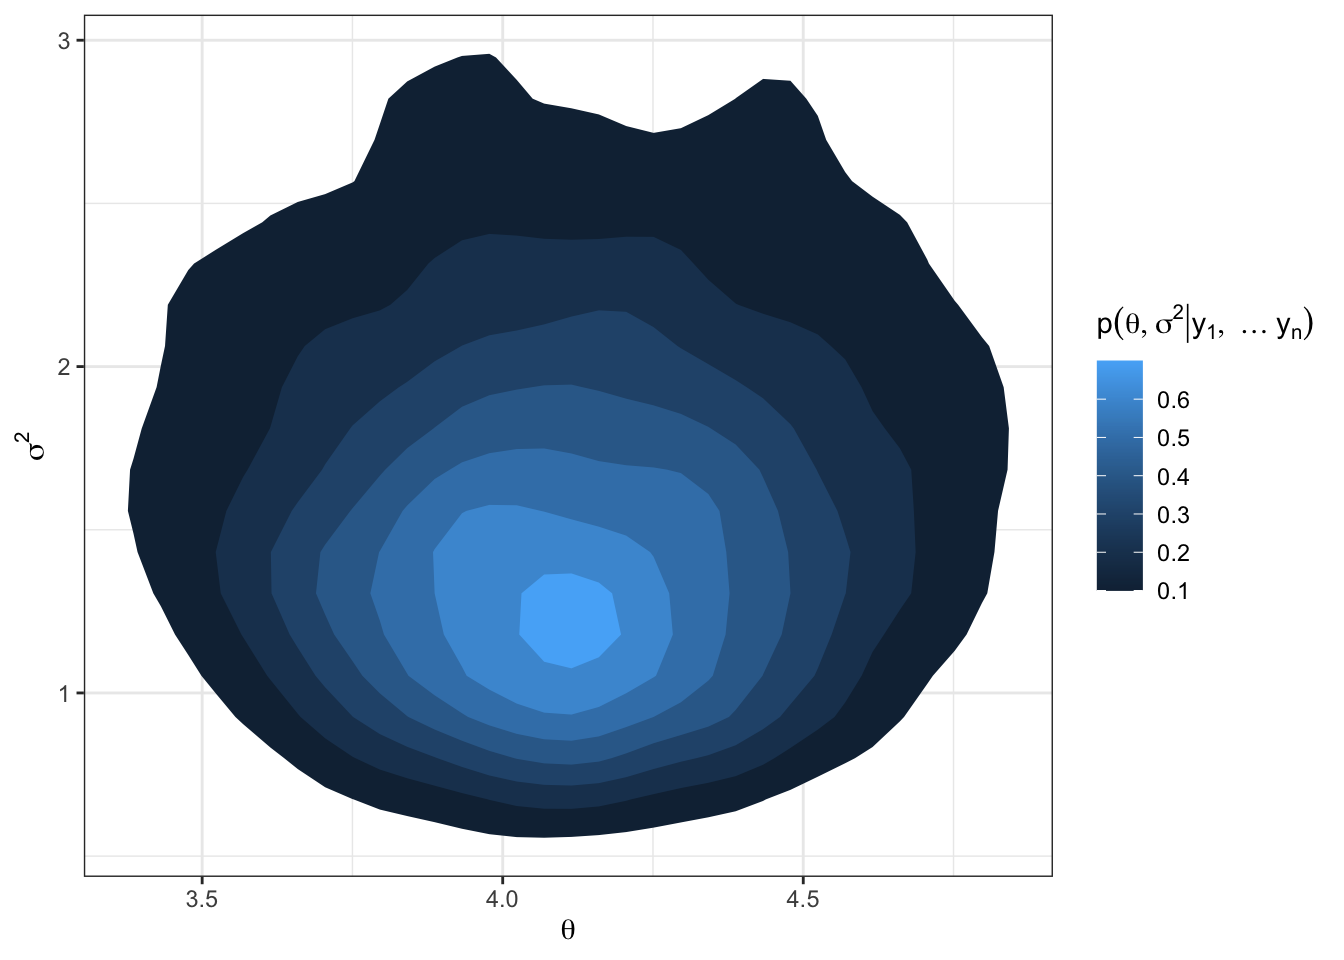
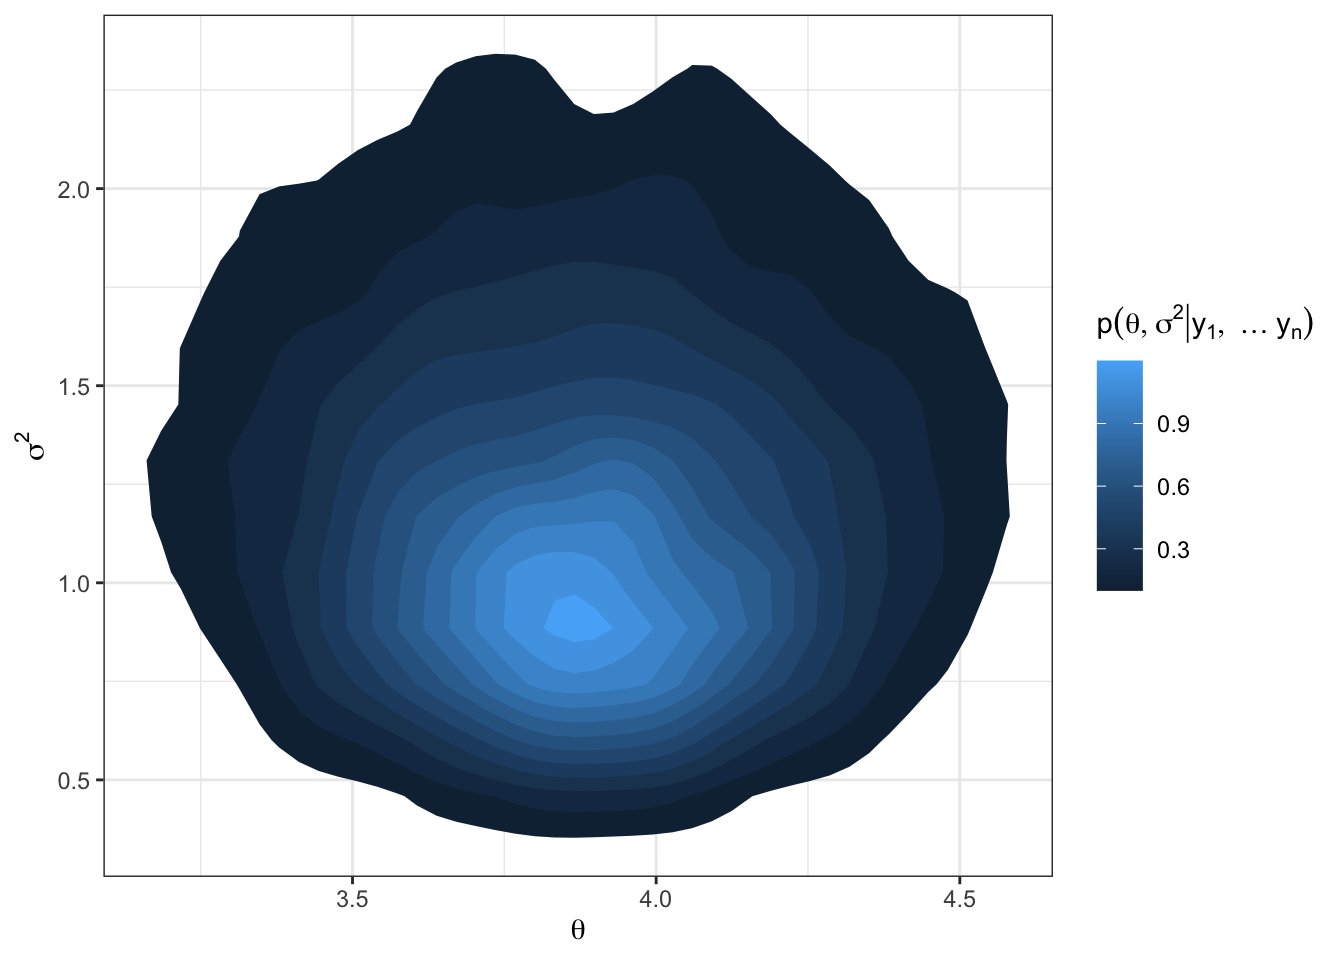
small updates for clarity

diff --git a/docs/notes/normalModel1.html b/docs/notes/normalModel1.html
@@ -163,7 +163,7 @@ code span.wa { color: #60a0b0; font-weight: bold; font-style: italic; } /* Warni
   <li><a href="#the-inverse-gamma" id="toc-the-inverse-gamma" class="nav-link" data-scroll-target="#the-inverse-gamma">The inverse-gamma</a></li>
   <li><a href="#the-marginal-posterior-of-sigma2" id="toc-the-marginal-posterior-of-sigma2" class="nav-link" data-scroll-target="#the-marginal-posterior-of-sigma2">The marginal posterior of <span class="math inline">\(\sigma^2\)</span></a></li>
   </ul></li>
-  <li><a href="#computing-the-joint-posterior" id="toc-computing-the-joint-posterior" class="nav-link" data-scroll-target="#computing-the-joint-posterior">Computing the joint posterior</a>
+  <li><a href="#sampling-from-the-joint-posterior" id="toc-sampling-from-the-joint-posterior" class="nav-link" data-scroll-target="#sampling-from-the-joint-posterior">Sampling from the joint posterior</a>
   <ul class="collapse">
   <li><a href="#example" id="toc-example" class="nav-link" data-scroll-target="#example">Example</a></li>
   </ul></li>
@@ -226,7 +226,7 @@ y &amp;\in \mathbb{R},\\
 </section>
 <section id="precision" class="level4">
 <h4 class="anchored" data-anchor-id="precision">precision</h4>
-<p>Notice that every time <span class="math inline">\(\sigma^2\)</span> appears in the density, it is inverted. For this reason, the inverse variance has a special name, <strong>precision</strong>. Mathematically we will call precision <span class="math inline">\(\lambda^2 = \frac{1}{\sigma^2}\)</span>. Intuitively, precision tells us how close <span class="math inline">\(y\)</span> is to the mean <span class="math inline">\(\theta\)</span>. (Large precision = small variance = closer).</p>
+<p>Notice that every time <span class="math inline">\(\sigma^2\)</span> appears in the density, it is inverted. For this reason, the inverse variance <span class="math inline">\((\frac{1}{\sigma^2})\)</span> has a special name, <strong>precision</strong>. Intuitively, precision tells us how close <span class="math inline">\(y\)</span> is to the mean <span class="math inline">\(\theta\)</span>. (Large precision = small variance = closer).</p>
 </section>
 </section>
 <section id="plots-of-normal-densities" class="level3">
@@ -331,15 +331,11 @@ answer
 </section>
 <section id="intuitive-posterior-parameters" class="level3">
 <h3 class="anchored" data-anchor-id="intuitive-posterior-parameters">Intuitive posterior parameters</h3>
-<p>If we consider the posterior precision <span class="math inline">\(\lambda_n^2 \equiv \frac{1}{\tau_n^2}\)</span>, we can re-arrange the terms above to illuminate how posterior information = prior information + data information;.</p>
+<p>If we consider the posterior precision, <span class="math inline">\(\frac{1}{\tau_n^2}\)</span>, we can re-arrange the terms above to illuminate how posterior information = prior information + data information;.</p>
 <p><span class="math display">\[
-{\lambda_n^2} = \lambda_0^2 + n \lambda^2
+\frac{1}{\tau_n^2}= \frac{1}{\tau_0^2} + \frac{n}{\sigma^2}
 \]</span></p>
-<ul>
-<li><span class="math inline">\({\lambda_n^2}\)</span>: posterior precision</li>
-<li><span class="math inline">\(\lambda_0^2\)</span>: prior precision</li>
-<li><span class="math inline">\(\lambda^2\)</span>: sampling precision</li>
-</ul>
+<p>In words, posterior precision is equivalent to prior precision plus sampling precision. If we name each precision term, <span class="math inline">\(\lambda_0 = \frac{1}{\tau_0}\)</span>, <span class="math inline">\(\lambda_n = \frac{1}{\tau_n}\)</span> and <span class="math inline">\(\lambda = \frac{1}{\sigma}\)</span> then</p>
 <p><span class="math display">\[
 \mu_n = \frac{\lambda_0^2}{\lambda_0^2 + n\lambda^2} \mu_0 +
 \frac{n\lambda^2}{\lambda_0^2 + n\lambda^2} \bar{y}
@@ -359,6 +355,19 @@ answer
 <!-- - $p(\theta| \sigma^2, \vec{y}) \propto p(\vec{y}| \theta, \sigma^2) p(\theta |\sigma^2)$ -->
 <!-- <!-- - $p(\sigma^2 | \vec{y}) \propto p(\vec{y}| \theta, \sigma^2) p(\sigma^2 |\theta)$ -->
 <!-- and for the variance, -->
+<div class="callout-important callout callout-style-default callout-captioned">
+<div class="callout-header d-flex align-content-center">
+<div class="callout-icon-container">
+<i class="callout-icon"></i>
+</div>
+<div class="callout-caption-container flex-fill">
+Important
+</div>
+</div>
+<div class="callout-body-container callout-body">
+<p>Note that <span class="math inline">\(\tau_n^2\)</span> is the posterior variance of the full conditional posterior of <span class="math inline">\(\theta\)</span>. This is distinct from <span class="math inline">\(\sigma_n^2\)</span>, defined below.</p>
+</div>
+</div>
 </section>
 <section id="prior-on-sigma2" class="level3">
 <h3 class="anchored" data-anchor-id="prior-on-sigma2">Prior on <span class="math inline">\(\sigma^2\)</span></h3>
@@ -391,44 +400,45 @@ Mode(X) &amp;= \frac{b}{a +1}.
 <p>Taken all together, if we let our sampling model and prior distributions be such that</p>
 <p><span class="math display">\[
 \begin{aligned}
-Y_i &amp;\sim N(\theta, \sigma^2)\\
+Y_i | \theta, \sigma^2 &amp;\sim N(\theta, \sigma^2)\\
 \theta | \sigma^2 &amp; \sim N(\mu_0, \sigma^2/\kappa_0)\\
 \frac{1}{\sigma^2} &amp;\sim \text{gamma}(\frac{\nu_0}{2}, \frac{\nu_0}{2} \sigma_0^2)
 \end{aligned}
 \]</span></p>
-<p>then</p>
+<p>then the posterior</p>
 <p><span class="math display">\[
 \frac{1}{\sigma^2} | \vec{y} \sim \text{gamma}(\frac{\nu_n}{2}, \frac{\nu_n \sigma^2_n}{2}),
 \]</span></p>
 <p>where</p>
 <p><span class="math display">\[
 \begin{aligned}
-\nu_n &amp;= \nu_0 + n\\
+\nu_n &amp;= \nu_0 + n,\\
 \sigma^2_n &amp;= \frac{1}{\nu_n} \left[
-\nu_0 \sigma^2_0 +(n-1)s^2 + \frac{\kappa_0 n}{\kappa_n}(\bar{y} - \mu_0)^2
+\nu_0 \sigma^2_0 +(n-1)s^2 + \frac{\kappa_0 n}{\kappa_n}(\bar{y} - \mu_0)^2,
 \right]
 \end{aligned}
 \]</span></p>
-<p>where <span class="math inline">\(s^2\)</span> is the sample variance.</p>
+<p>and <span class="math inline">\(s^2\)</span> is the sample variance, <span class="math inline">\(\frac{1}{n-1} \sum_i (y_i - \bar{y})^2\)</span>.</p>
 <hr>
 </section>
 </section>
-<section id="computing-the-joint-posterior" class="level2">
-<h2 class="anchored" data-anchor-id="computing-the-joint-posterior">Computing the joint posterior</h2>
-<p>Since <span class="math inline">\(p(\theta, \sigma^2 | \vec{y}) = p(\theta | \sigma^2, y_1, \ldots, y_n)p(\sigma^2|y_1, \ldots y_n)\)</span>, we can compute the joint posterior by sampling from <span class="math inline">\(p(\sigma^2|y_1, \ldots y_n)\)</span> and then sampling from <span class="math inline">\(p(\theta | \sigma^2, y_1, \ldots, y_n)\)</span> to draw samples from the joint posterior.</p>
+<section id="sampling-from-the-joint-posterior" class="level2">
+<h2 class="anchored" data-anchor-id="sampling-from-the-joint-posterior">Sampling from the joint posterior</h2>
+<p>Since <span class="math inline">\(p(\theta, \sigma^2 | \vec{y}) = p(\theta | \sigma^2, y_1, \ldots, y_n)p(\sigma^2|y_1, \ldots y_n)\)</span>, we can sample from the joint posterior by first sampling from <span class="math inline">\(p(\sigma^2|y_1, \ldots y_n)\)</span> and then sampling from <span class="math inline">\(p(\theta | \sigma^2, y_1, \ldots, y_n)\)</span>.</p>
 <section id="example" class="level3">
 <h3 class="anchored" data-anchor-id="example">Example</h3>
 <p><strong>Proof of concept</strong></p>
 <p>We have some data:</p>
 <div class="cell">
 <div class="sourceCode cell-code" id="cb3"><pre class="sourceCode r code-with-copy"><code class="sourceCode r"><span id="cb3-1"><a href="#cb3-1" aria-hidden="true" tabindex="-1"></a><span class="co"># generating 10 samples from the population</span></span>
-<span id="cb3-2"><a href="#cb3-2" aria-hidden="true" tabindex="-1"></a>true.theta <span class="ot">=</span> <span class="dv">4</span></span>
-<span id="cb3-3"><a href="#cb3-3" aria-hidden="true" tabindex="-1"></a>true.sigma <span class="ot">=</span> <span class="dv">1</span></span>
-<span id="cb3-4"><a href="#cb3-4" aria-hidden="true" tabindex="-1"></a>y <span class="ot">=</span> <span class="fu">rnorm</span>(<span class="dv">10</span>, true.theta, true.sigma)</span>
-<span id="cb3-5"><a href="#cb3-5" aria-hidden="true" tabindex="-1"></a></span>
-<span id="cb3-6"><a href="#cb3-6" aria-hidden="true" tabindex="-1"></a>ybar <span class="ot">=</span> <span class="fu">mean</span>(y) <span class="co"># sample mean</span></span>
-<span id="cb3-7"><a href="#cb3-7" aria-hidden="true" tabindex="-1"></a>n <span class="ot">=</span> <span class="fu">length</span>(y) <span class="co"># sample size</span></span>
-<span id="cb3-8"><a href="#cb3-8" aria-hidden="true" tabindex="-1"></a>s2 <span class="ot">=</span> <span class="fu">var</span>(y) <span class="co"># sample variance</span></span></code><button title="Copy to Clipboard" class="code-copy-button"><i class="bi"></i></button></pre></div>
+<span id="cb3-2"><a href="#cb3-2" aria-hidden="true" tabindex="-1"></a><span class="fu">set.seed</span>(<span class="dv">123</span>)</span>
+<span id="cb3-3"><a href="#cb3-3" aria-hidden="true" tabindex="-1"></a>true.theta <span class="ot">=</span> <span class="dv">4</span></span>
+<span id="cb3-4"><a href="#cb3-4" aria-hidden="true" tabindex="-1"></a>true.sigma <span class="ot">=</span> <span class="dv">1</span></span>
+<span id="cb3-5"><a href="#cb3-5" aria-hidden="true" tabindex="-1"></a>y <span class="ot">=</span> <span class="fu">rnorm</span>(<span class="dv">10</span>, true.theta, true.sigma)</span>
+<span id="cb3-6"><a href="#cb3-6" aria-hidden="true" tabindex="-1"></a></span>
+<span id="cb3-7"><a href="#cb3-7" aria-hidden="true" tabindex="-1"></a>ybar <span class="ot">=</span> <span class="fu">mean</span>(y) <span class="co"># sample mean</span></span>
+<span id="cb3-8"><a href="#cb3-8" aria-hidden="true" tabindex="-1"></a>n <span class="ot">=</span> <span class="fu">length</span>(y) <span class="co"># sample size</span></span>
+<span id="cb3-9"><a href="#cb3-9" aria-hidden="true" tabindex="-1"></a>s2 <span class="ot">=</span> <span class="fu">var</span>(y) <span class="co"># sample variance</span></span></code><button title="Copy to Clipboard" class="code-copy-button"><i class="bi"></i></button></pre></div>
 </div>
 <p>We make inference about <span class="math inline">\(\theta\)</span> and <span class="math inline">\(\sigma^2\)</span>:</p>
 <div class="cell">

diff --git a/docs/hw/hw04.html b/docs/hw/hw04.html
@@ -149,6 +149,7 @@ code span.wa { color: #60a0b0; font-weight: bold; font-style: italic; } /* Warni
    
   <ul>
   <li><a href="#exercise-1" id="toc-exercise-1" class="nav-link active" data-scroll-target="#exercise-1">Exercise 1</a></li>
+  <li><a href="#exercise-2" id="toc-exercise-2" class="nav-link" data-scroll-target="#exercise-2">Exercise 2</a></li>
   </ul>
 </nav>
     </div>
@@ -177,10 +178,13 @@ code span.wa { color: #60a0b0; font-weight: bold; font-style: italic; } /* Warni
 <p>Exercise 5.1 from Hoff. You can read in the data from the three schools with the R code below.</p>
 <div class="cell">
 <div class="sourceCode cell-code" id="cb1"><pre class="sourceCode r code-with-copy"><code class="sourceCode r"><span id="cb1-1"><a href="#cb1-1" aria-hidden="true" tabindex="-1"></a><span class="fu">library</span>(tidyverse)</span>
-<span id="cb1-2"><a href="#cb1-2" aria-hidden="true" tabindex="-1"></a>school1 <span class="ot">=</span> <span class="fu">read_csv</span>(<span class="st">"sta360-fa23.github.io/data/school1.csv"</span>)</span>
-<span id="cb1-3"><a href="#cb1-3" aria-hidden="true" tabindex="-1"></a>school2 <span class="ot">=</span> <span class="fu">read_csv</span>(<span class="st">"sta360-fa23.github.io/data/school1.csv"</span>)</span>
-<span id="cb1-4"><a href="#cb1-4" aria-hidden="true" tabindex="-1"></a>school3 <span class="ot">=</span> <span class="fu">read_csv</span>(<span class="st">"sta360-fa23.github.io/data/school1.csv"</span>)</span></code><button title="Copy to Clipboard" class="code-copy-button"><i class="bi"></i></button></pre></div>
+<span id="cb1-2"><a href="#cb1-2" aria-hidden="true" tabindex="-1"></a>school1 <span class="ot">=</span> <span class="fu">read_csv</span>(<span class="st">"https://sta360-fa23.github.io/data/school1.csv"</span>)</span>
+<span id="cb1-3"><a href="#cb1-3" aria-hidden="true" tabindex="-1"></a>school2 <span class="ot">=</span> <span class="fu">read_csv</span>(<span class="st">"https://sta360-fa23.github.io/data/school1.csv"</span>)</span>
+<span id="cb1-4"><a href="#cb1-4" aria-hidden="true" tabindex="-1"></a>school3 <span class="ot">=</span> <span class="fu">read_csv</span>(<span class="st">"https://sta360-fa23.github.io/data/school1.csv"</span>)</span></code><button title="Copy to Clipboard" class="code-copy-button"><i class="bi"></i></button></pre></div>
 </div>
+</section>
+<section id="exercise-2" class="level2">
+<h2 class="anchored" data-anchor-id="exercise-2">Exercise 2</h2>
 
 
 </section>
